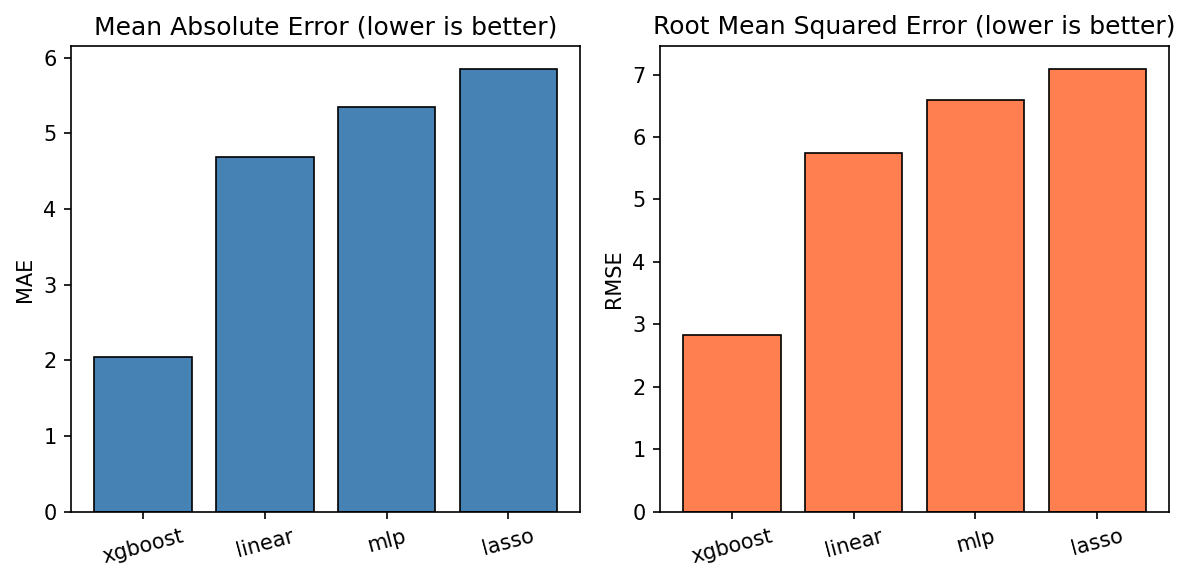
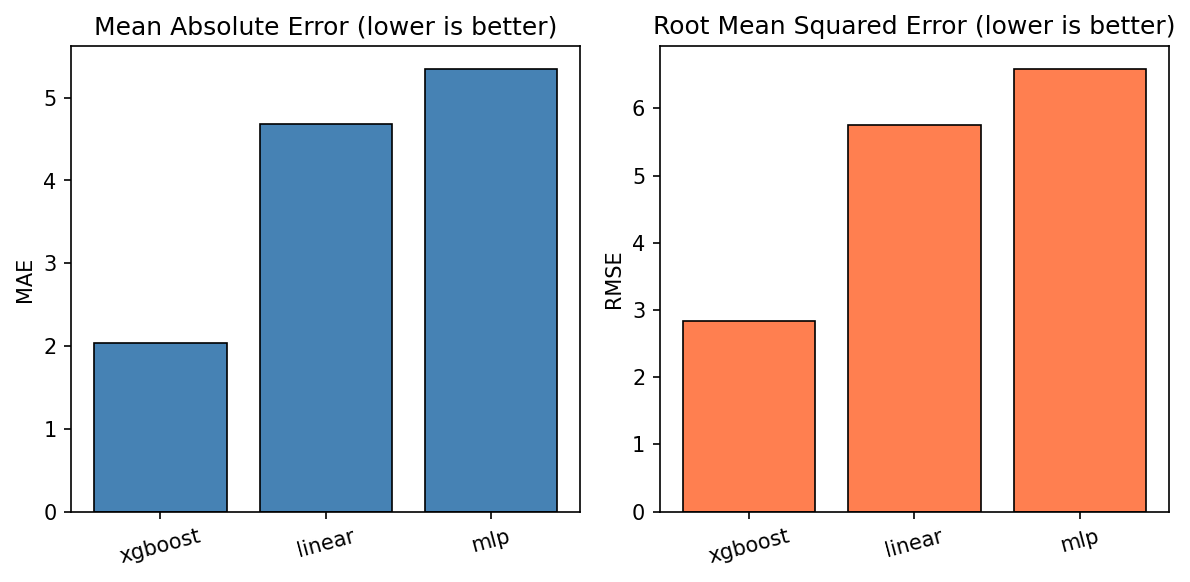
align repo with three-model dissertation scope

diff --git a/src/models.py b/src/models.py
@@ -4,7 +4,7 @@ from __future__ import annotations
 
 from typing import Any, Dict
 
-from sklearn.linear_model import Lasso, Ridge
+from sklearn.linear_model import Ridge
 from sklearn.neural_network import MLPRegressor
 
 try:
@@ -33,7 +33,6 @@ def build_models(random_state: int = 42) -> Dict[str, Any]:
     """
     models: Dict[str, Any] = {
         "linear": Ridge(alpha=1.0),
-        "lasso": Lasso(alpha=0.1, max_iter=5000),
         "mlp": MLPRegressor(
             random_state=random_state,
             max_iter=2000,

diff --git a/tests/test_smoke.py b/tests/test_smoke.py
@@ -157,7 +157,6 @@ def test_regression_metrics_perfect() -> None:
 def test_build_models_keys() -> None:
     models = build_models()
     assert "linear" in models
-    assert "lasso" in models
     assert "mlp" in models
     for name, model in models.items():
         assert hasattr(model, "fit"), f"{name} has no fit method"

diff --git a/README.md b/README.md
@@ -130,6 +130,7 @@ compared with the main CV table in `results/main_cv_results.csv`.
 - **Country-level visualisation:** Country GDP growth panel for 11 euro-area countries + interactive Plotly choropleth map with year slider:
   - `python -m src.build_country_panel` → `data/processed/panel_country_yearly.csv`
   - `python -m src.country_map_dashboard [YEAR]` → `results/country_gdp_growth_map.html`
+  - This dashboard is an optional practical extension and does not affect the primary evaluation reported in the dissertation.
 - **AutoML robustness:** FLAML AutoML baseline (`python -m src.automl_experiments`).
 - **Documentation:** Data dictionary, reproducibility guide, indicator registry.
 - **Tests:** Smoke tests in `tests/`.
@@ -137,7 +138,7 @@ compared with the main CV table in `results/main_cv_results.csv`.
 ## Future work
 
 - Rolling/expanding window evaluation as an alternative to fixed-fold time-series CV.
-- Additional model families (e.g. GAM, Lasso, polynomial regression).
+- Additional model families (e.g. GAM, Elastic Net, polynomial regression).
 - Sub-period robustness analysis (e.g. pre/post financial crisis).
 - Country-level model predictions overlaid on the choropleth map.
 - Symbolic regression (Py-OPERON) for formula-like interpretable models.

diff --git a/SCOPE.md b/SCOPE.md
@@ -35,7 +35,7 @@
 - 国家级 panel、地图可视化
 - 符号回归（Py-OPERON）在报告中的系统对比
 - 子时段稳健性分析（若时间紧可省略）
-- Ridge/Lasso、GAM、多项式回归等额外模型族
+- Elastic Net、GAM、多项式回归等额外模型族
 - Rolling/expanding window 评估
 
 ---
